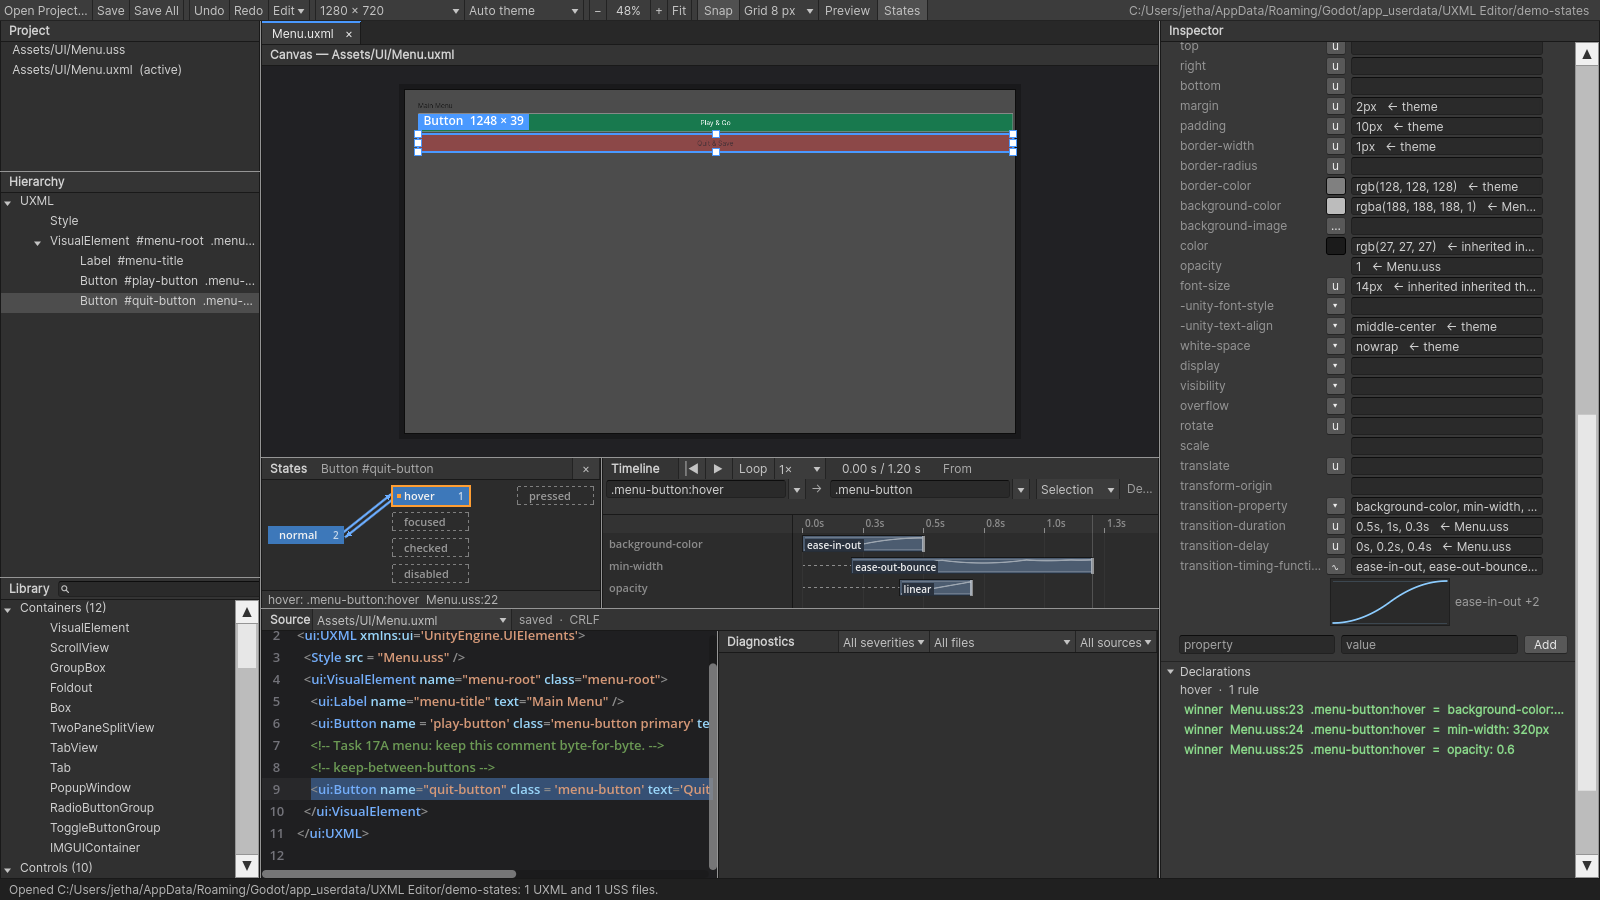
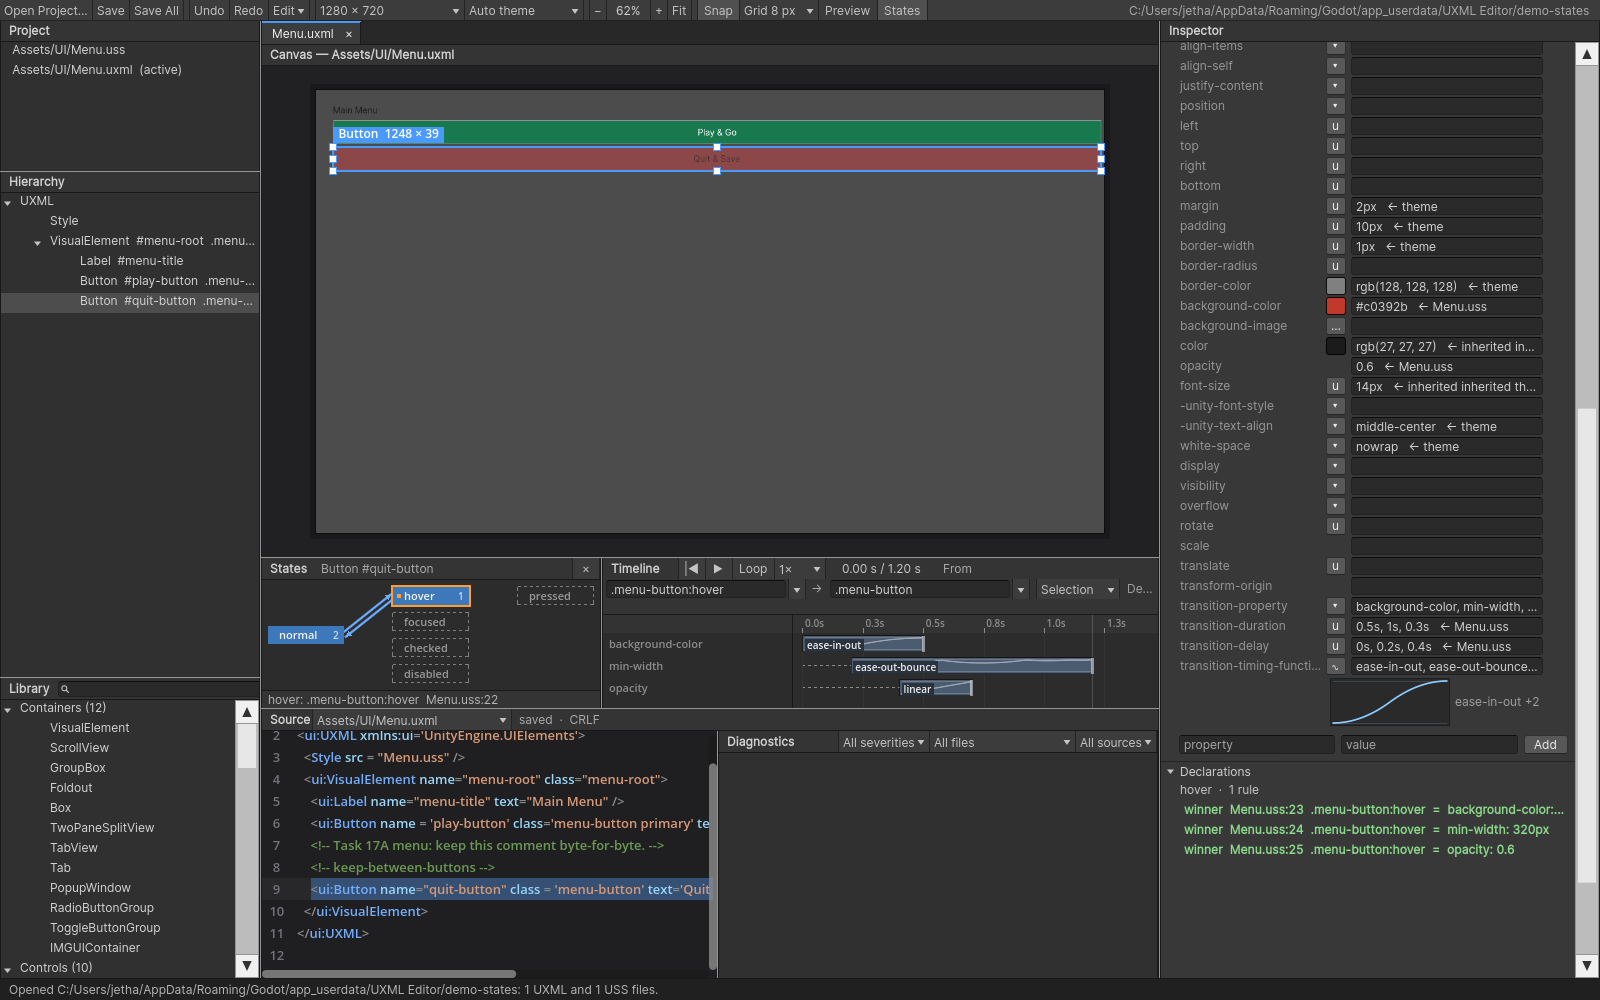
Let a bar drag without a run wait for the pause too

diff --git a/docs/architecture.md b/docs/architecture.md
@@ -581,6 +581,12 @@ that keep a frame cheap:
   deepest element first.
 - A seek restyles only the running transitions and redraws the track area
   and the canvas overlay. The time label has a fixed width.
+- A change of the number of rows of the inspector moves content with a
+  paint-only `translate`, and a text goes through `set_text` to a label of a
+  size that does not follow the text. A selection lays out nothing.
+- A timeline bar drag writes once, and its stylesheet reload waits for a pause.
+- The state-machine graph builds on a frame without a change, and only while
+  the panel is open.
 
 ## Testing
 
